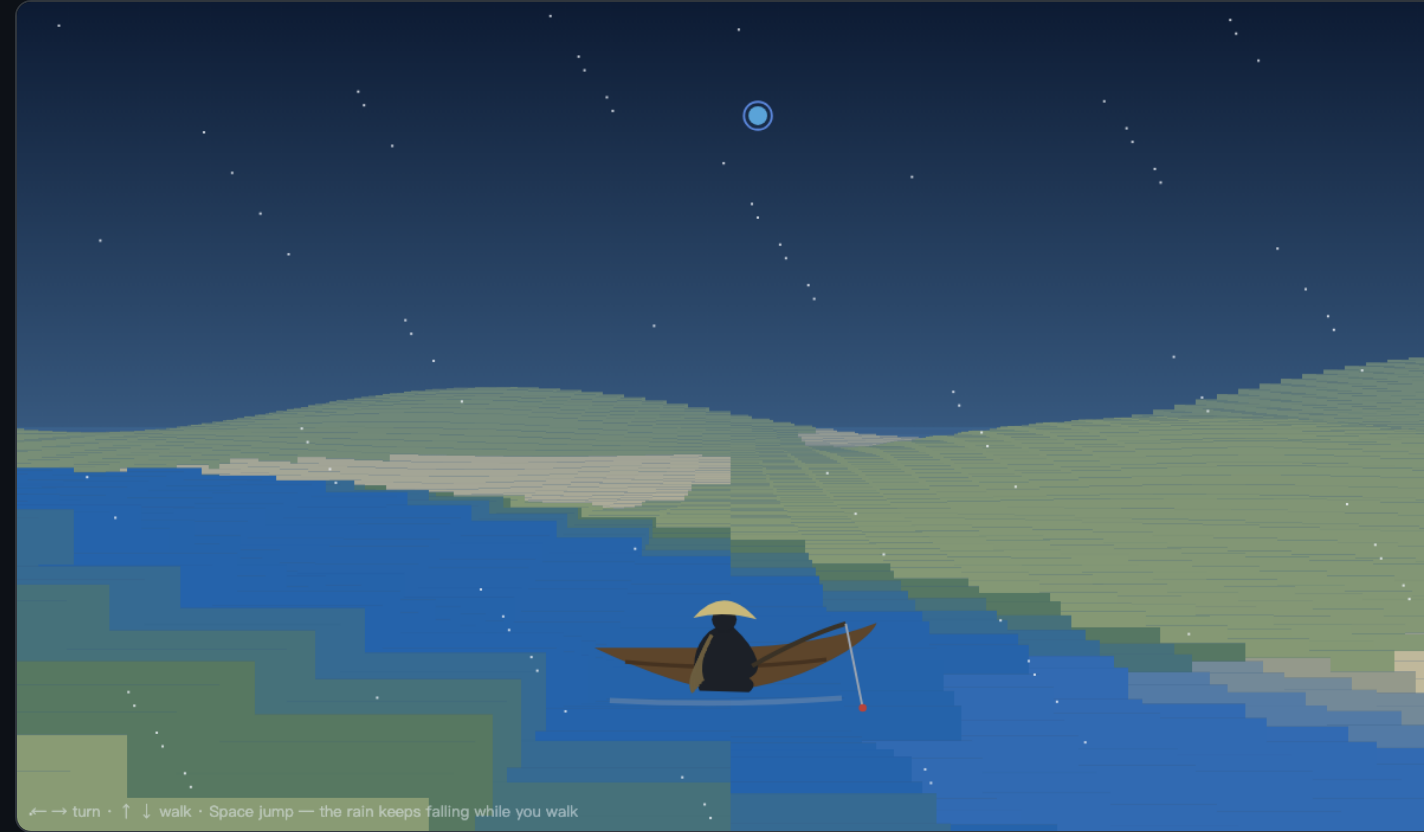
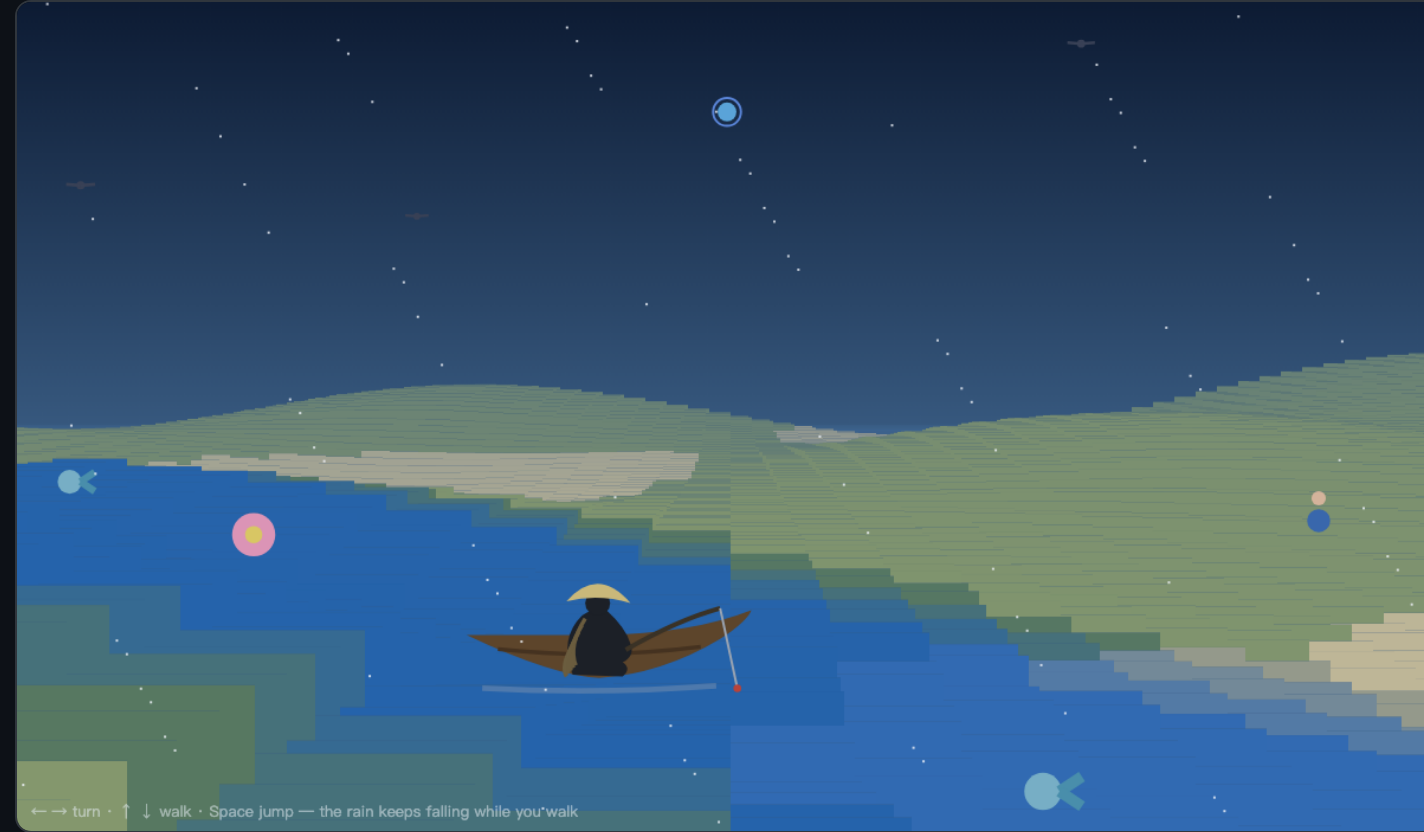
world: moon3-spring — the world grown lush (flowers, birds, fish, other people) + new hero
Extends moon3 into a living scene: three birds aloft (flapping skins
that circle), three fish drifting in the water, three more lotuses, and
two robed people on the banks (skin-toned faces + coloured robes via the
new hsl palette) — every one a separate capability-fenced cell, its skin
a drawing-DSL and its behaviour a sensing reflex; none can touch what it
wasn't granted. Saved as worlds/moon3-spring.json (an example world) and
captured first-person as the new assets/hero-world.png. README caption +
Files list updated to describe the living world and the §20–§21 powers
(beget, self-repaint, self-naming, real-time sensing) under the fixed
invariant.

diff --git a/README.md b/README.md
@@ -12,9 +12,9 @@ Today's apps ship a fixed set of screens. This is the opposite — there is no p
 
 **Where this sits.** The field calls this *generative UI*, and most tools (v0, bolt, Lovable) have the model write ordinary code you then run as-is. wasm-jit takes the safer end of that spectrum: the interface is *composed from a fixed vocabulary*, never arbitrary code, and compiled into a capability-fenced WASM cell — safe by construction, not by review. That is the whole bet.
 
-![First-person view of a straw-hatted fisherman in a boat on a river under a starry sky](assets/hero-world.png)
+![First-person view of a night river under a water-blue moon: a straw-hatted fisherman in a boat, birds aloft, fish below, lotuses, and other people on the banks](assets/hero-world.png)
 
-> The same substrate scales to a whole world: a shared 96×96 field (§19) where you say *"a lonely fisherman on a snowy river"* and walk into it. Terrain, weather, and each inhabitant are separate fuel-metered, capability-fenced cells — no cell knows the whole; the landscape emerges.
+> The same substrate scales to a whole *living* world: a shared field (§19) with a fisherman, other people, lotuses, birds aloft and fish below, all under a water-blue moon. Terrain, weather, every skin and behaviour is a separate capability-fenced cell — and beings can beget, repaint themselves, name themselves, and sense one another (§20–§21), while none can touch anything it wasn't granted. No cell knows the whole; the world emerges.
 
 ---
 
@@ -167,5 +167,6 @@ The six gaps named in docs §18 ("from PoC to live UI manifestation") are now bu
 - `api-server/` — Axum: static dist + `/api/{departments,members,form-schema,layout-schema,live-schema,examples,as,as-src}` (schemas/seeds read from disk per request)
 - `gen-server/` — the live-generation demo (:8646): `contract.md` (the whole seed contract in one prompt — Tier 1's design point), `src/main.rs` (Docker-sandboxed Claude CLI + native compile-validation with self-repair), `live-gen.html` (chat + instant manifestation)
 - `examples/*.dsl` — buddha / guanyin / minecraft (isometric) / mc3p (playable third-person)
-- `worlds/moon3.json` — an **example saved world**, loadable from the live-generation world library: a snowy river, a straw-hatted fisherman afloat, a water-blue moon aloft, five lotuses — terrain, weather, and every inhabitant are separate capability-fenced cells (the world hero image above is a first-person view of it)
+- `worlds/moon3.json` — an **example saved world**, loadable from the live-generation world library: a snowy river, a straw-hatted fisherman afloat, a water-blue moon aloft, five lotuses — terrain, weather, and every inhabitant are separate capability-fenced cells
+- `worlds/moon3-spring.json` — the same world grown lush: flowers, birds aloft, fish below, and other people on the banks (the world hero image above is a first-person view of it)
 - `docs/multidimensional-composition-architecture.md` — the full theory essay (§0–§21, English); `…zh-TW.md` is the Traditional-Chinese, Buddhist-perspective edition